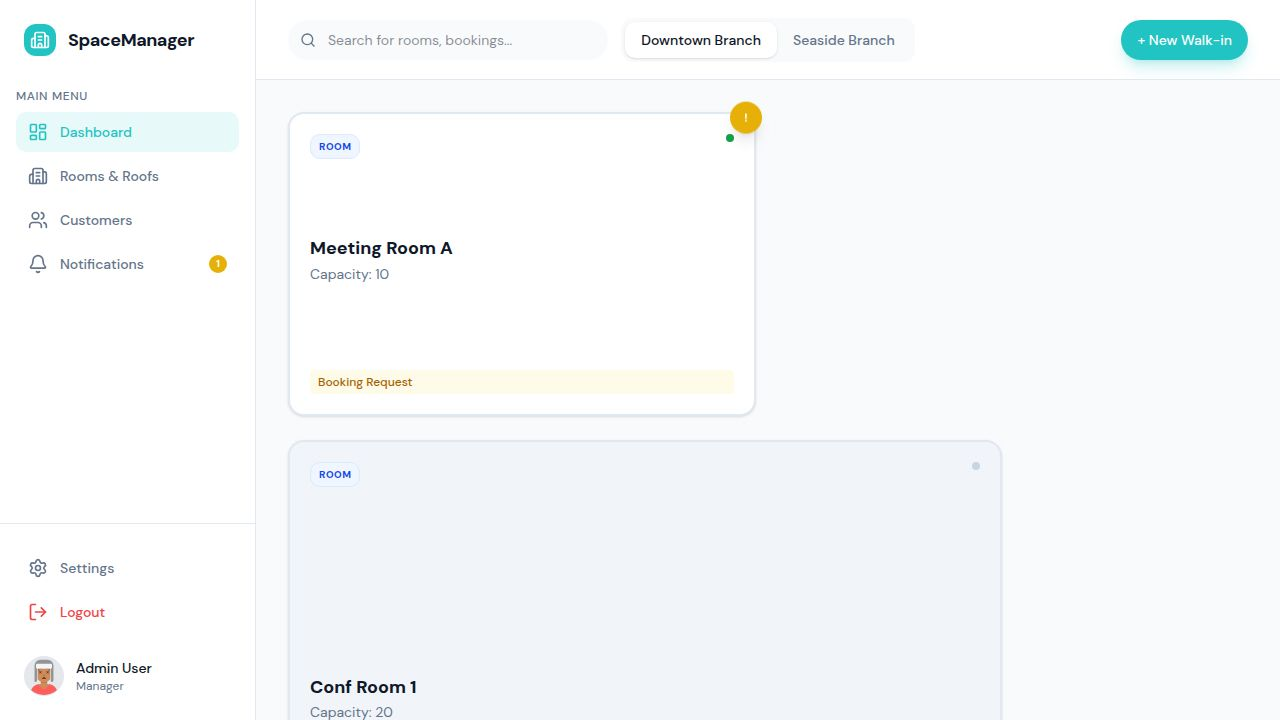
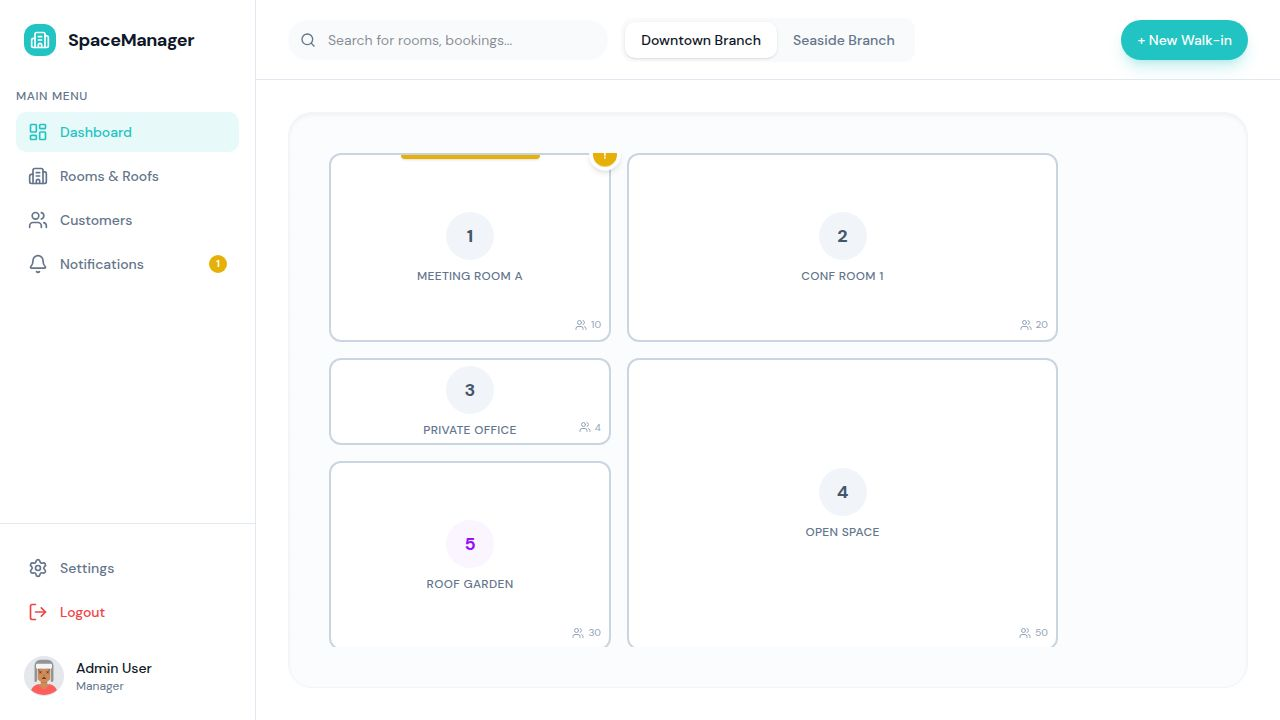
Revert Room Map layout to blueprint canvas style
Reverts the Room Map component in `client/src/components/RoomMap.tsx` to use absolute positioning within a grid layout, restoring the blueprint/canvas floor plan aesthetic.

Replit-Commit-Author: Agent
Replit-Commit-Session-Id: 339c479d-1b71-4f98-b25c-9bbfca6a6dee
Replit-Commit-Checkpoint-Type: full_checkpoint
Replit-Commit-Event-Id: 26ec9639-8576-45eb-bfd0-bb84d62a188d
Replit-Commit-Screenshot-Url: https://storage.googleapis.com/screenshot-production-us-central1/78a3bfd0-79a0-41e7-8f05-54bdf7e5939f/339c479d-1b71-4f98-b25c-9bbfca6a6dee/RIRlUW5
Replit-Helium-Checkpoint-Created: true

diff --git a/client/src/components/RoomMap.tsx b/client/src/components/RoomMap.tsx
@@ -11,22 +11,24 @@ export function RoomMap() {
   return (
     <div className="flex-1 bg-white p-8 overflow-hidden relative flex flex-col">
         {/* Canvas / Floor Plan Container */}
-        <div className="flex-1 relative border border-slate-100 rounded-3xl bg-slate-50/50 overflow-hidden shadow-inner p-10">
+        <div className="flex-1 relative border border-slate-100 rounded-3xl bg-slate-50/50 overflow-hidden shadow-inner">
             
             {/* Grid Background for blueprint feel */}
             <div className="absolute inset-0 pointer-events-none opacity-[0.05] bg-[linear-gradient(to_right,#80808012_1px,transparent_1px),linear-gradient(to_bottom,#80808012_1px,transparent_1px)] bg-[size:40px_40px]"></div>
 
-            {/* Simply layout - Auto Grid instead of complex coordinates */}
-            <div className="grid grid-cols-1 md:grid-cols-2 lg:grid-cols-3 xl:grid-cols-4 gap-8 auto-rows-[200px]">
-                {branchRooms.map((room) => (
-                    <RoomNode 
-                        key={room.id} 
-                        room={room} 
-                        isSelected={selectedRoomId === room.id}
-                        hasPending={!!getPendingBookingForRoom(room.id)}
-                        onClick={() => setSelectedRoomId(room.id)}
-                    />
-                ))}
+            <div className="absolute inset-10 overflow-auto">
+                {/* This is the "Canvas" area. We use a 12x12 grid for the floor plan layout */}
+                <div className="w-full h-full min-w-[800px] min-h-[600px] grid grid-cols-12 grid-rows-12 gap-4">
+                    {branchRooms.map((room) => (
+                        <RoomNode 
+                            key={room.id} 
+                            room={room} 
+                            isSelected={selectedRoomId === room.id}
+                            hasPending={!!getPendingBookingForRoom(room.id)}
+                            onClick={() => setSelectedRoomId(room.id)}
+                        />
+                    ))}
+                </div>
             </div>
         </div>
     </div>
@@ -44,18 +46,26 @@ function RoomNode({
     hasPending: boolean;
     onClick: () => void;
 }) {
+    // Map the simple x,y coordinates to the grid
+    // We use the mock data coordinates to place them on the grid
+    const style = {
+        gridColumn: `${(room.x || 0) * 2 + 1} / span ${(room.w || 1) * 2}`,
+        gridRow: `${(room.y || 0) * 2 + 1} / span ${(room.h || 1) * 2}`,
+    };
+
     return (
         <motion.button
             layoutId={`room-${room.id}`}
             onClick={onClick}
+            style={style}
             className={cn(
-                "relative group transition-all duration-300 flex flex-col items-center justify-center w-full h-full",
+                "relative group transition-all duration-300 flex flex-col items-center justify-center",
                 // Blueprint style borders
                 "border-2",
                 isSelected 
                     ? "border-primary bg-primary/10 z-10 shadow-lg shadow-primary/10" 
-                    : "border-slate-300 bg-white hover:border-primary/60 hover:bg-slate-50 hover:shadow-md hover:-translate-y-1",
-                "rounded-xl"
+                    : "border-slate-300 bg-white hover:border-primary/60 hover:bg-slate-50",
+                "rounded-lg"
             )}
         >
             {/* Status Indicator Line */}
@@ -63,7 +73,7 @@ function RoomNode({
                  <motion.div 
                     initial={{ scaleX: 0 }}
                     animate={{ scaleX: 1 }}
-                    className="absolute top-0 left-1/4 right-1/4 h-1.5 bg-warning rounded-b-md shadow-sm"
+                    className="absolute top-0 left-1/4 right-1/4 h-1 bg-warning rounded-b-sm shadow-sm"
                  />
             )}
 
@@ -80,33 +90,21 @@ function RoomNode({
 
             {/* Room Number / ID Circle (Center) */}
             <div className={cn(
-                "w-16 h-16 rounded-full flex items-center justify-center mb-3 font-bold text-2xl transition-colors shadow-sm border",
-                isSelected 
-                    ? "bg-primary text-white border-primary" 
-                    : "bg-slate-50 text-slate-600 border-slate-200 group-hover:bg-white group-hover:border-primary/30 group-hover:text-primary",
-                room.type === 'roof' && !isSelected && "bg-purple-50 text-purple-600 border-purple-100"
+                "w-12 h-12 rounded-full flex items-center justify-center mb-2 font-bold text-lg transition-colors",
+                isSelected ? "bg-primary text-white" : "bg-slate-100 text-slate-600 group-hover:bg-primary/10 group-hover:text-primary",
+                room.type === 'roof' && !isSelected && "bg-purple-50 text-purple-600"
             )}>
                 {room.id.replace('r', '')}
             </div>
 
             {/* Room Name Label */}
-            <span className="text-sm font-bold text-slate-700 uppercase tracking-wide max-w-[90%] truncate mb-1">
+            <span className="text-xs font-medium text-slate-500 uppercase tracking-wide max-w-[90%] truncate">
                 {room.name}
             </span>
 
-            {/* Status Text */}
-            <span className={cn(
-                "text-[10px] px-2 py-0.5 rounded-full font-medium uppercase tracking-wider mb-2",
-                room.status === 'available' ? "bg-emerald-100 text-emerald-700" :
-                room.status === 'occupied' ? "bg-slate-100 text-slate-500" :
-                "bg-amber-100 text-amber-700"
-            )}>
-                {room.status}
-            </span>
-
             {/* Capacity Hint */}
-            <div className="absolute bottom-3 right-3 flex items-center gap-1.5 text-xs text-slate-400 font-medium bg-slate-50 px-2 py-1 rounded-md border border-slate-100">
-                <Users className="w-3.5 h-3.5" />
+            <div className="absolute bottom-2 right-2 flex items-center gap-1 text-[10px] text-slate-400">
+                <Users className="w-3 h-3" />
                 {room.capacity}
             </div>
 
